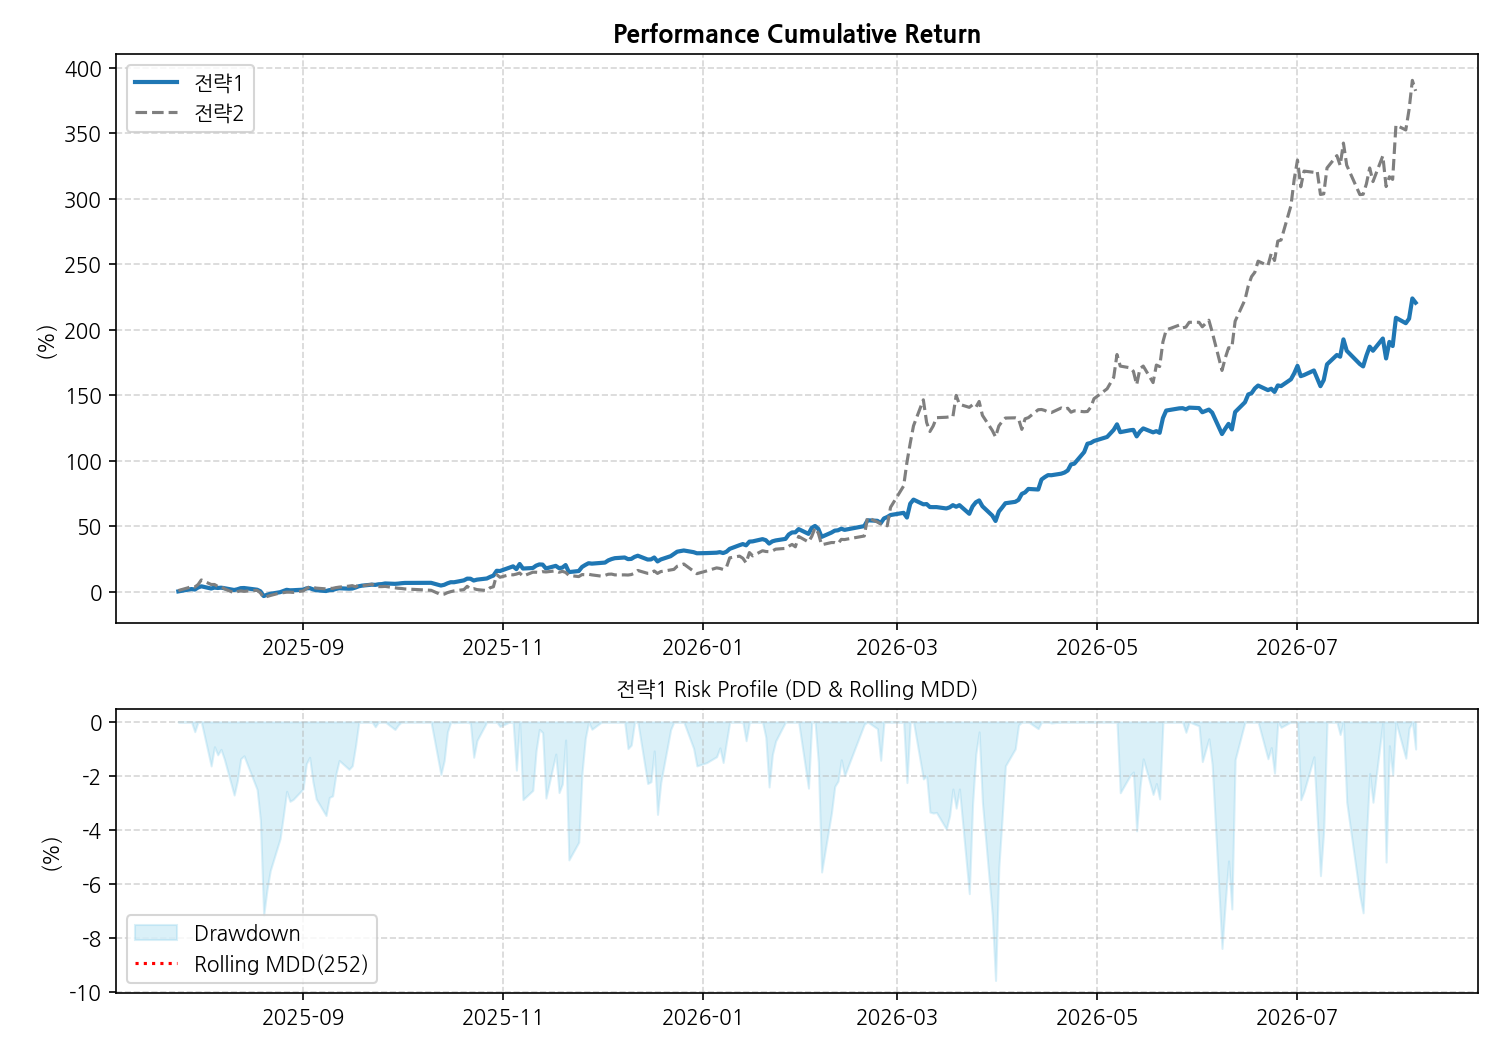
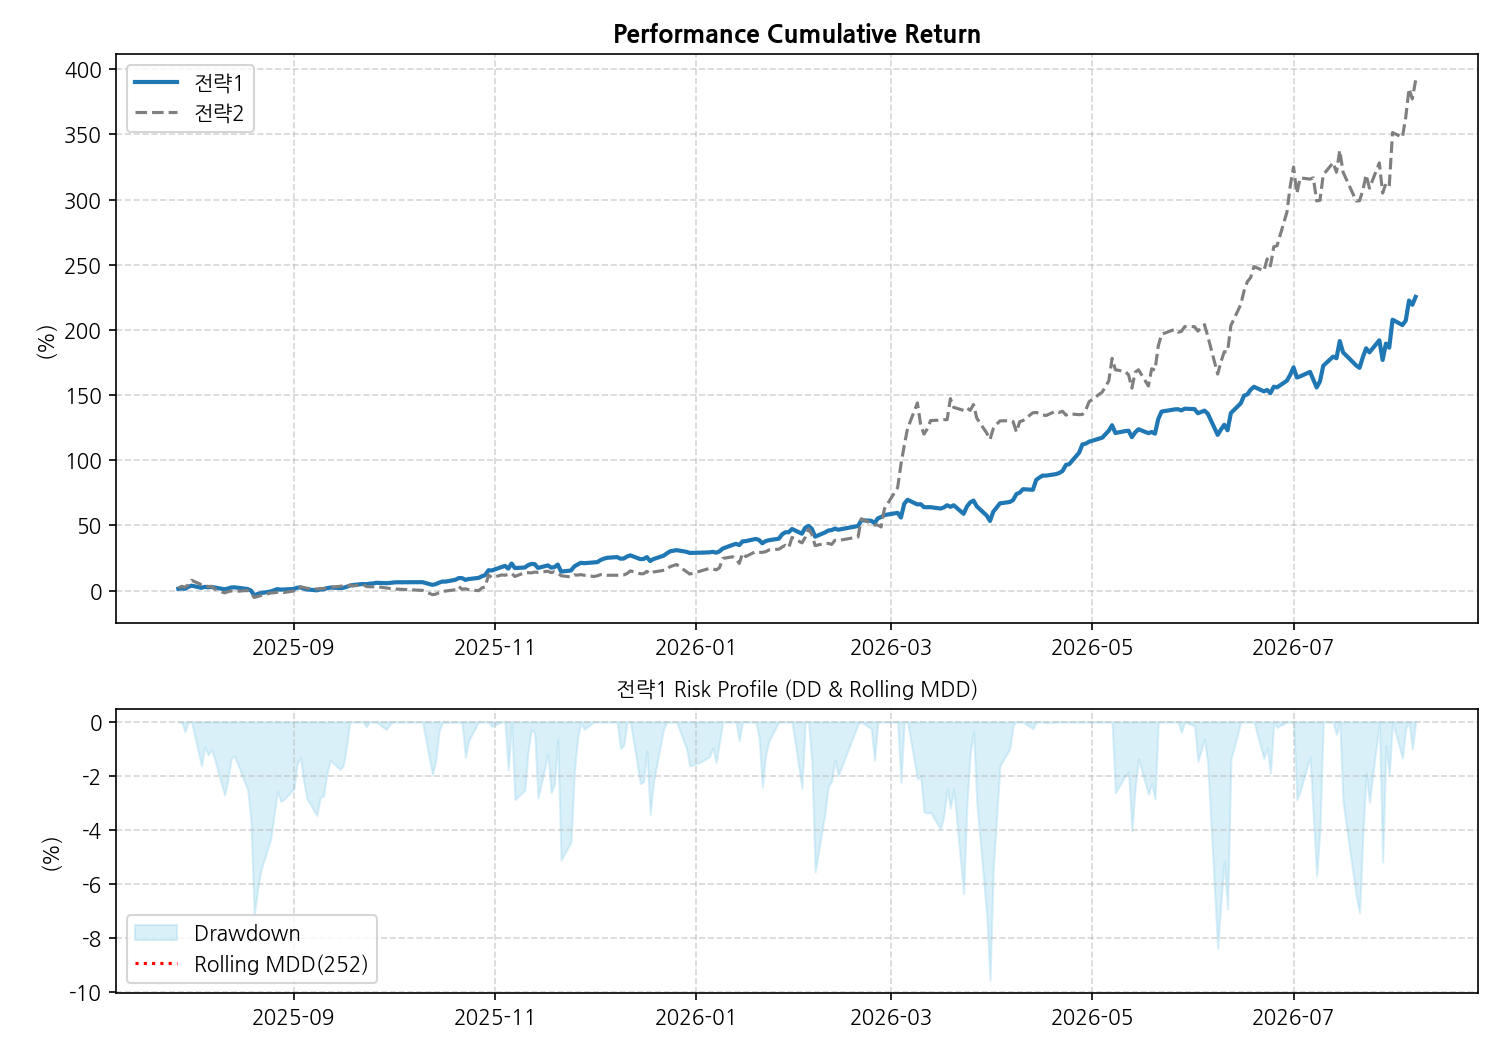
Auto commit

diff --git a/_pages/bt/st_stock_future.md b/_pages/bt/st_stock_future.md
@@ -2,7 +2,7 @@
 layout: post
 title: "BT, 주식선물"
 author: Best Investor
-date: 2026-08-06
+date: 2026-08-10
 category: BT
 mermaid: true
 parent: 포트폴리오
@@ -15,14 +15,14 @@ parent: 포트폴리오
 
 | 지표 | 전략 1 (S1) | 전략 2 (S2) | 차이 (Diff) |
 | :--- | :---: | :---: | :---: |
-| **오늘 수익률** | -1.0% | -1.64% | 0.64% |
-| **30일 수익률** | 26.94% | 36.66% | -9.72% |
-| **1년 수익률** | 220.7% | 382.29% | -161.59% |
-| **전체 수익률** | 960.79% | 1672.83% | -712.04% |
+| **오늘 수익률** | 1.89% | 2.99% | -1.1% |
+| **30일 수익률** | 26.85% | 35.09% | -8.24% |
+| **1년 수익률** | 225.33% | 391.42% | -166.09% |
+| **전체 수익률** | 980.85% | 1725.88% | -745.03% |
 | **MDD (1Y)** | -9.56% | -12.67% | 3.11%p |
 | **MDD (ALL)** | **-10.63%** | **-16.06%** | 5.43%p |
-| **샤프 (1Y)** | 4.06 | 3.64 | 0.42 |
-| **샤프 (ALL)** | **2.94** | **2.48** | 0.46 |
+| **샤프 (1Y)** | 4.11 | 3.67 | 0.44 |
+| **샤프 (ALL)** | **2.96** | **2.5** | 0.46 |
 
 ## 📉 누적 성과 및 리스크 차트
 1. **최근 30일:** ![30일](/img_st/bt_stockfuture_cum_risk_30d.png)

diff --git a/_posts/theme/2026-04-01-theme.md b/_posts/theme/2026-04-01-theme.md
@@ -6,6 +6,9 @@ date: 2026-04-01
 category: Jekyll
 ---
 
+## 2026-08-10
+![image](/img/2026-08-10.jpg)
+
 ## 2026-08-07
 ![image](/img/2026-08-07.jpg)
 
